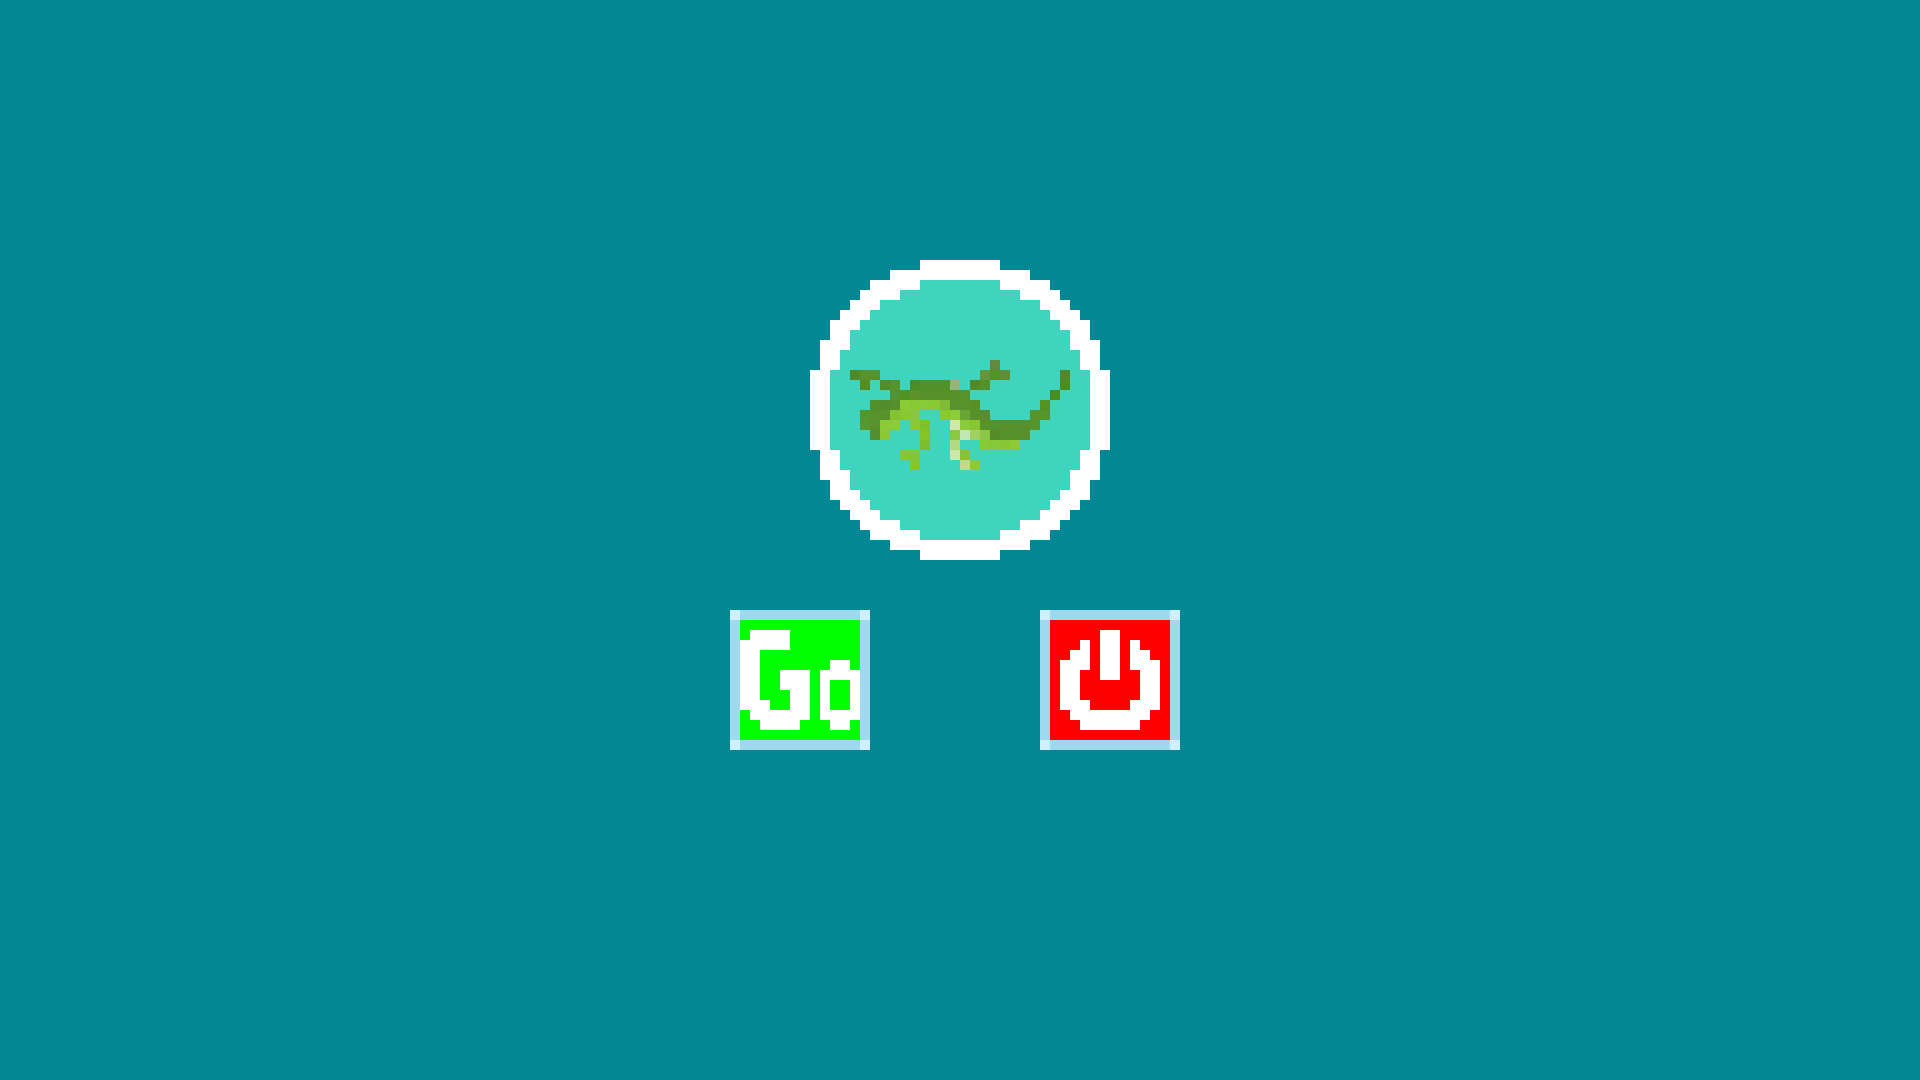
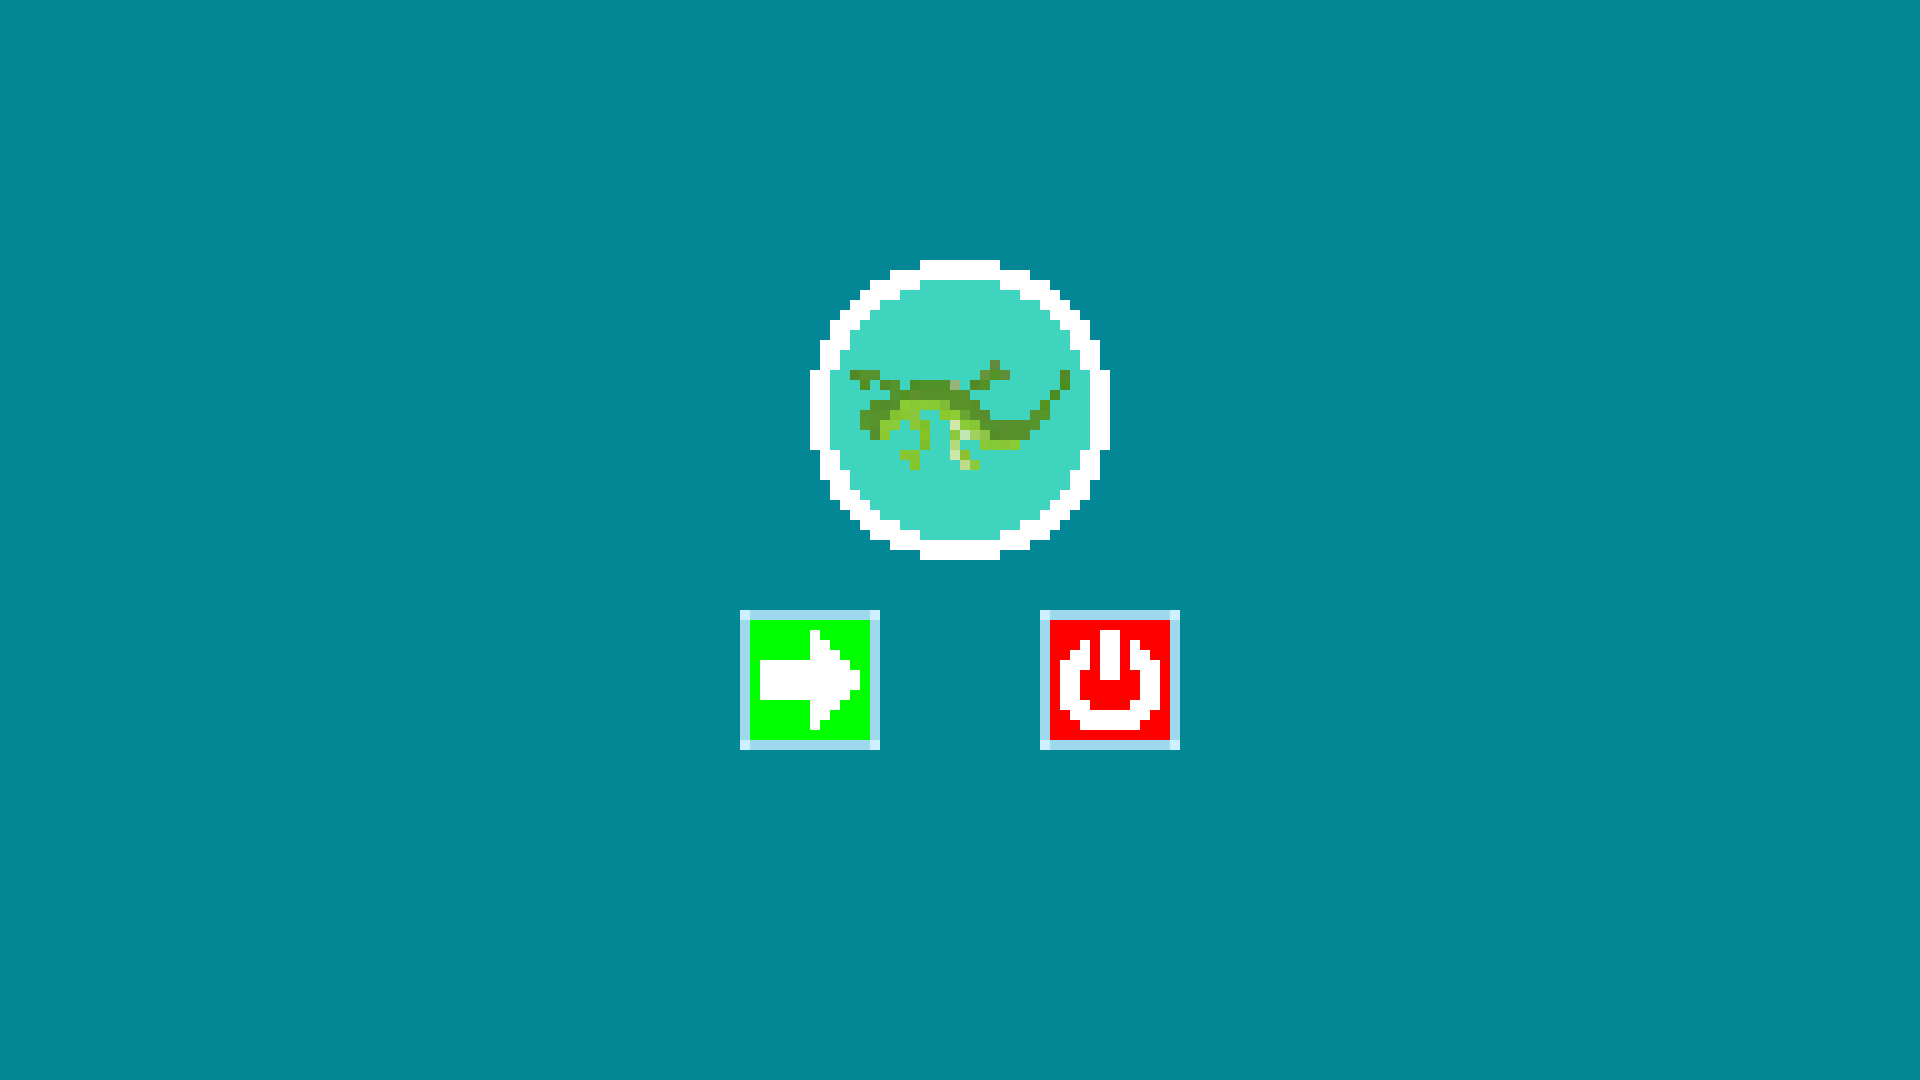
UDD - MainMenu
게임 종료 스크립트 생성 및 추가
Canvas 하위 폴더 정리
게임 접속 버튼 이미지 변경

Changed region(s): [[0.375, 0.55, 0.4688, 0.7028]]

diff --git a/Assets/Scripts/QuitGame.cs b/Assets/Scripts/QuitGame.cs
@@ -1,0 +1,15 @@
+using System.Collections;
+using System.Collections.Generic;
+using UnityEngine;
+
+public class QuitGame : MonoBehaviour
+{
+    public void GameExit()
+    {
+#if UNITY_EDITOR
+        UnityEditor.EditorApplication.isPlaying = false;
+#else
+        Application.Quit();
+#endif
+    }
+}
